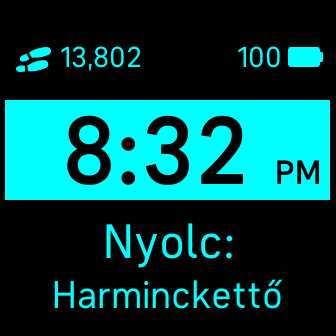
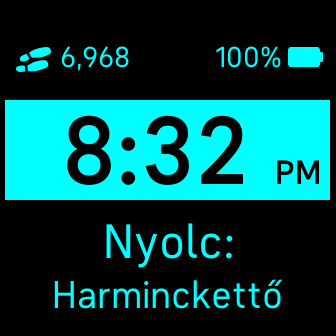
Added percent sign to battery indicator

Changed region(s): [[0.1786, 0.119, 0.4167, 0.2083], [0.6548, 0.119, 0.8333, 0.2083]]

diff --git a/magyar-clock/app/index.js b/magyar-clock/app/index.js
@@ -47,7 +47,7 @@ batteryLabel.text = battery.chargeLevel;
  * @param {*} evt 
  */
 battery.onchange = (charger, evt) => {
-  batteryLabel.text = battery.chargeLevel;
+  batteryLabel.text = battery.chargeLevel + "%";
 };
 
 /**
